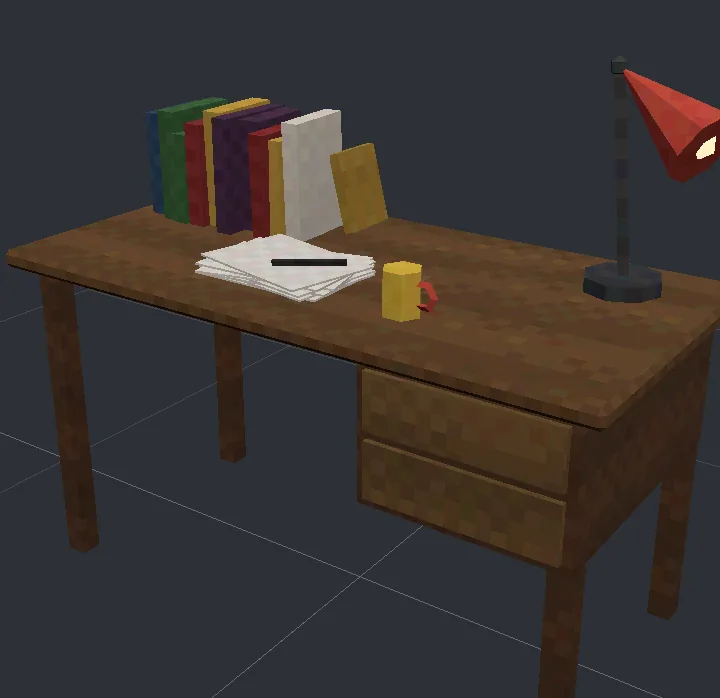
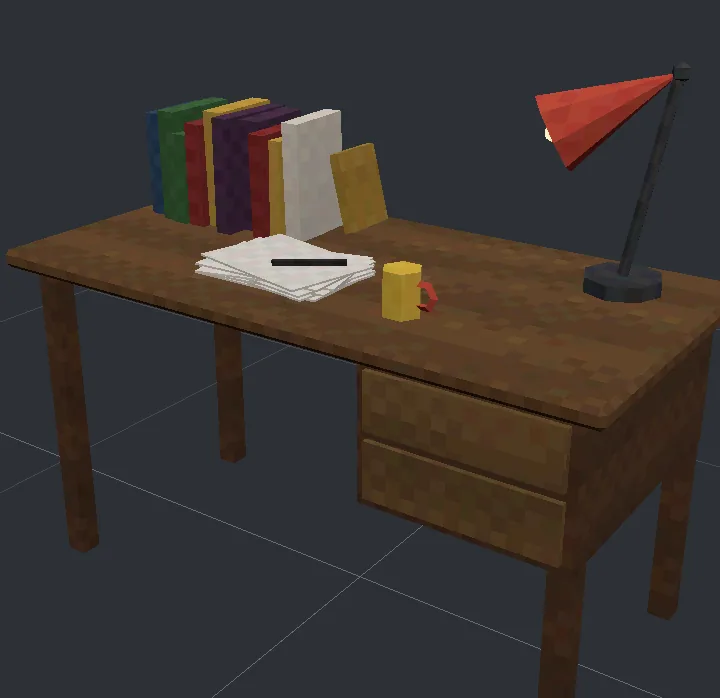
Turn the desk lamps to face their desks
The anglepoise on the writer's desk and the tour's lamps reached off the edge of
the table; they now lean back and shine over it. The tour's second lamp is turned
round with turn=0,0,180 to face the first.

Changed region(s): [[0.7333, 0.0903, 1.0, 0.2708]]

diff --git a/docs/start/tour.md b/docs/start/tour.md
@@ -51,9 +51,9 @@ The lamp's arm runs from its base to an elbow, and its shade points back at the 
 prop tour_4 "Tour 4"
   top = box at=0,0,on(.72) size=1.2,.6,.04 mat=wood
   base = cylinder on=top at=.4,.1 radius=.08 height=.03 mat=steel_dark sides=8
-  elbow = sphere at=.34,.15,1.18 radius=.02 mat=steel_dark sides=6 rings=3
+  elbow = sphere at=.46,.15,1.18 radius=.02 mat=steel_dark sides=6 rings=3
   cylinder from=base.top to=elbow radius=.012 mat=steel_dark sides=5
-  cone from=.55,.08,1.05 to=elbow radius=.08 mat=#c84a3a/paint sides=8
+  cone from=.25,.06,1.05 to=elbow radius=.08 mat=#c84a3a/paint sides=8
 ```
 
 `#c84a3a/paint` is a material made from a colour and a finish.
@@ -65,15 +65,17 @@ Name a group of lines with `def`, then call it by its name like a shape, anywher
 ```parts
 def tour_lamp shade=#c84a3a/paint
   base = cylinder radius=.08 height=.03 mat=steel_dark sides=8
-  elbow = sphere at=-.06,.05,.45 radius=.02 mat=steel_dark sides=6 rings=3
+  elbow = sphere at=.06,0,.45 radius=.02 mat=steel_dark sides=6 rings=3
   cylinder from=base.top to=elbow radius=.012 mat=steel_dark sides=5
-  cone from=.15,-.02,.32 to=elbow radius=.08 mat=shade sides=8
+  cone from=-.15,0,.32 to=elbow radius=.08 mat=shade sides=8
 
 prop tour_5 "Tour 5"
   top = box at=0,0,on(.72) size=1.2,.6,.04 mat=wood
   tour_lamp on=top at=.4,.1
-  tour_lamp on=top at=-.4,.1 shade=#3a6a9a/paint
+  tour_lamp on=top at=-.4,.1 shade=#3a6a9a/paint turn=0,0,180
 ```
+
+The lamp's shade reaches toward -x; `turn=0,0,180` turns the second one round to face the first.
 
 ## 6. Rows and variety
 
